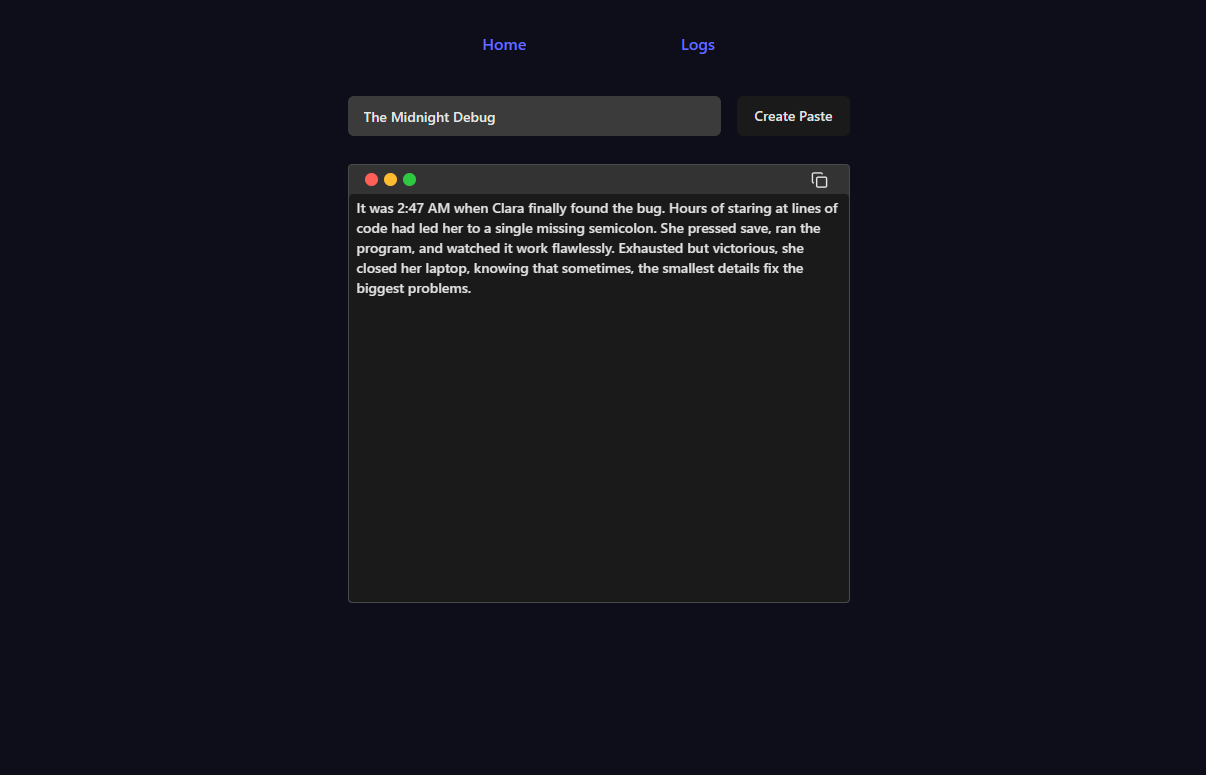
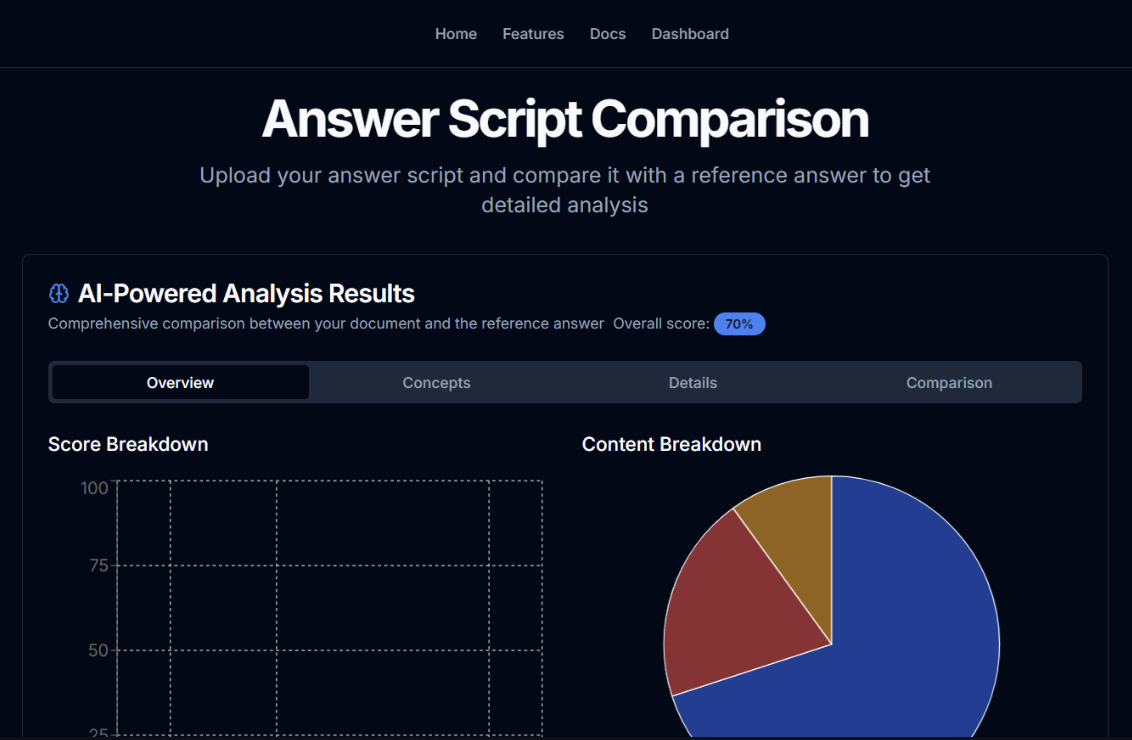
Added TaskFlow in projects section

diff --git a/data/index.ts b/data/index.ts
@@ -97,7 +97,7 @@ export const projects = [
   },
   {
     id: 2,
-    title: "Droply - A Safe & Secure Cloud File Storage",
+    title: "Droply",
     des: "Modern cloud storage solution designed to simplify file management with speed, privacy, and accessibility.",
     img: "/p1.png",
     iconLists: ["/next.svg", "/tail.svg", "/ts.svg", "/pgsql.png", "/dr.png"],
@@ -106,12 +106,12 @@ export const projects = [
   },
   {
     id: 3,
-    title: "LogIT",
-    des: "A note-taking web app that lets users create, edit, and manage codes or text.",
+    title: "TaskFlow",
+    des: "A modern, intuitive application designed to streamline your document processing and task management workflows.",
     img: "/p3.png",
     iconLists: ["/re.svg", "/tail.svg", "/ts.svg"],
-    link: "https://log-it-pi.vercel.app/",
-    titleLink: "https://log-it-pi.vercel.app/"
+    link: "https://taskflow2.vercel.app/",
+    titleLink: "https://taskflow2.vercel.app/"
   },
 ];
 
